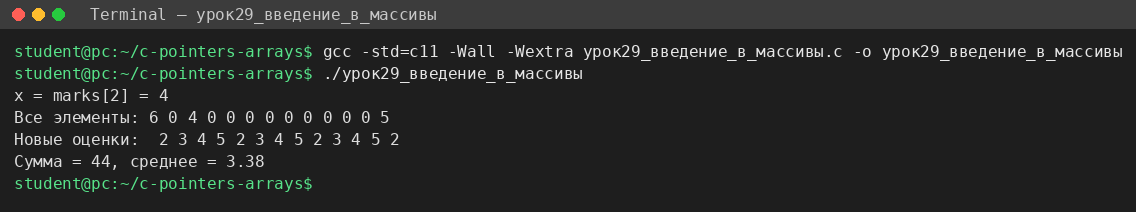
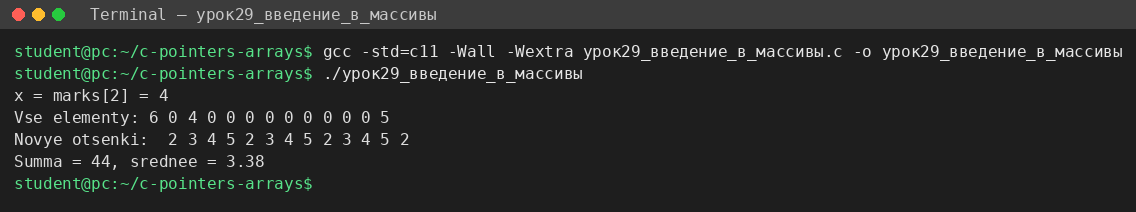
Вывод программ транслитом, чтобы читался в любой консоли
Claude-Session: https://claude.ai/code/session_01XR2qf9a9sUMHkzyo3cAcxk

diff --git a/урок28_адресная_арифметика.c b/урок28_адресная_арифметика.c
@@ -2,15 +2,9 @@
  * Урок #28. Адресная арифметика
  */
 #include <stdio.h>
-#ifdef _WIN32
-#include <windows.h>   /* SetConsoleOutputCP - русский текст в консоли Windows */
-#endif
 
 int main(void)
 {
-#ifdef _WIN32
-    SetConsoleOutputCP(CP_UTF8);
-#endif
     /* 1. Инкремент/декремент указателя сдвигает адрес на sizeof(тип) */
     int g = 4;
     int *ptr = &g;
@@ -30,34 +24,34 @@ int main(void)
     ptr = ptr - 9;
     --ptr;
     ptr++;
-    printf("2) после +3 -4 +10 -9 -1 +1 указатель вернулся: %s\n\n",
-           ptr == start ? "да" : "нет");
+    printf("2) posle +3 -4 +10 -9 -1 +1 ukazatel vernulsya: %s\n\n",
+           ptr == start ? "da" : "net");
 
     /* 3. Разность указателей - расстояние в элементах */
     short ar[10];
     short *p1 = ar;
     short *p2 = &ar[3];
     printf("3) p1 = %p, p2 = %p\n", (void *)p1, (void *)p2);
-    printf("   p2 - p1 = %td (элементов), в байтах: %td\n\n",
+    printf("   p2 - p1 = %td (elementov), v baytah: %td\n\n",
            p2 - p1, (char *)p2 - (char *)p1);
 
     /* 4. Побайтовый просмотр int через char* */
     int n = 476789;
     unsigned char *pb = (unsigned char *)&n;
-    printf("4) байты числа %d (0x%08X):\n   ", n, n);
+    printf("4) bayty chisla %d (0x%08X):\n   ", n, n);
     for (size_t i = 0; i < sizeof(n); ++i)
         printf("%d ", *pb++);   /* сначала берём значение, потом сдвигаем */
     printf("\n\n");
 
     /* 5. Приоритеты операций */
     unsigned char *q = (unsigned char *)&n;
-    printf("5) Приоритеты:\n");
-    printf("   *q + 1   = %d (первый байт + 1)\n", *q + 1);
-    printf("   *(q + 1) = %d (второй байт)\n", *(q + 1));
+    printf("5) Prioritety:\n");
+    printf("   *q + 1   = %d (pervyy bayt + 1)\n", *q + 1);
+    printf("   *(q + 1) = %d (vtoroy bayt)\n", *(q + 1));
     int x = *q++;
-    printf("   x = *q++ = %d, теперь *q = %d\n", x, *q);
+    printf("   x = *q++ = %d, teper *q = %d\n", x, *q);
     x = (*q)++;
-    printf("   x = (*q)++ = %d, теперь *q = %d (изменилось значение)\n", x, *q);
+    printf("   x = (*q)++ = %d, teper *q = %d (izmenilos znachenie)\n", x, *q);
 
     int *pg = &g;
     *pg += 1;

diff --git a/урок27_указатели_приведение_типов_NULL.c b/урок27_указатели_приведение_типов_NULL.c
@@ -2,15 +2,9 @@
  * Урок #27. Указатели. Приведение типов. Константа NULL
  */
 #include <stdio.h>
-#ifdef _WIN32
-#include <windows.h>   /* SetConsoleOutputCP - русский текст в консоли Windows */
-#endif
 
 int main(void)
 {
-#ifdef _WIN32
-    SetConsoleOutputCP(CP_UTF8);
-#endif
     /* 1. Два указателя на одну переменную */
     int arg = 7;
     int *ptr_arg, *ptr;
@@ -18,7 +12,7 @@ int main(void)
     ptr_arg = &arg;
     ptr = ptr_arg;              /* копируем адрес из одного указателя в другой */
 
-    printf("1) Два указателя на одну переменную\n");
+    printf("1) Dva ukazatelya na odnu peremennuyu\n");
     printf("   *ptr = %d, arg = %d\n", *ptr, arg);
     *ptr_arg = 100;             /* меняем значение через первый указатель */
     printf("   *ptr = %d, arg = %d\n\n", *ptr, arg);
@@ -28,10 +22,10 @@ int main(void)
     int *p_int = &num;
     char *p_ch = (char *)p_int; /* явное приведение int* -> char* */
 
-    printf("2) Приведение типов указателей\n");
+    printf("2) Privedenie tipov ukazateley\n");
     printf("   num = %d\n", num);
     *p_ch = 1;                  /* записываем только в младший байт */
-    printf("   после *p_ch = 1: *p_int = %d, num = %d\n\n", *p_int, num);
+    printf("   posle *p_ch = 1: *p_int = %d, num = %d\n\n", *p_int, num);
     /* 777 = 0x0309, младший байт 0x09 заменили на 0x01 -> 0x0301 = 769 */
 
     /* 3. Указатель void* */
@@ -44,16 +38,16 @@ int main(void)
     int val = 5;
     int *pn = NULL;             /* указатель пока никуда не указывает */
 
-    printf("4) Константа NULL\n");
+    printf("4) Konstanta NULL\n");
     if (pn != NULL)
         *pn = 1;
     else
-        printf("   pn == NULL, запись пропущена, val = %d\n", val);
+        printf("   pn == NULL, zapis propuschena, val = %d\n", val);
 
     pn = &val;
     if (pn != NULL)
         *pn = 1;
-    printf("   pn = &val, после записи val = %d\n", val);
+    printf("   pn = &val, posle zapisi val = %d\n", val);
 
     return 0;
 }

diff --git a/урок31_указатели_на_массивы.c b/урок31_указатели_на_массивы.c
@@ -2,15 +2,9 @@
  * Урок #31. Указатели на массивы
  */
 #include <stdio.h>
-#ifdef _WIN32
-#include <windows.h>   /* SetConsoleOutputCP - русский текст в консоли Windows */
-#endif
 
 int main(void)
 {
-#ifdef _WIN32
-    SetConsoleOutputCP(CP_UTF8);
-#endif
     short ar[] = {4, 3, 2, 1, 5, 6, 7};
     size_t n = sizeof(ar) / sizeof(*ar);
 
@@ -19,7 +13,7 @@ int main(void)
     short a_4 = *(ar + 3);
     printf("1) *ar = %d, *(ar+3) = %d\n", a_1, a_4);
 
-    printf("   все элементы через *(ar+i): ");
+    printf("   vse elementy cherez *(ar+i): ");
     for (size_t i = 0; i < n; ++i)
         printf("%d ", *(ar + i));
     printf("\n\n");
@@ -28,14 +22,14 @@ int main(void)
     short *ptr_ar = ar;         /* то же, что &ar[0] */
     short x = *ptr_ar;
     *(ptr_ar + 1) = -3;         /* меняем второй элемент */
-    printf("2) x = *ptr_ar = %d, после *(ptr_ar+1) = -3: ar[1] = %d\n\n", x, ar[1]);
+    printf("2) x = *ptr_ar = %d, posle *(ptr_ar+1) = -3: ar[1] = %d\n\n", x, ar[1]);
 
     /* 3. sizeof массива и указателя */
     printf("3) sizeof(ar) = %zu, sizeof(ptr_ar) = %zu\n\n", sizeof(ar), sizeof(ptr_ar));
 
     /* 4. Указатель можно двигать, имя массива - нельзя */
     /* ar++;  - ошибка компиляции */
-    printf("4) обход через ptr_ar++: ");
+    printf("4) obhod cherez ptr_ar++: ");
     for (short *p = ar; p < ar + n; p++)
         printf("%d ", *p);
     printf("\n\n");
@@ -47,7 +41,7 @@ int main(void)
 
     /* 6. Указатель на весь массив: short (*)[7] */
     short (*pa)[7] = &ar;
-    printf("6) pa = %p, pa + 1 = %p (сдвиг на %td байт)\n",
+    printf("6) pa = %p, pa + 1 = %p (sdvig na %td bayt)\n",
            (void *)pa, (void *)(pa + 1), (char *)(pa + 1) - (char *)pa);
     printf("   (*pa)[6] = %d\n", (*pa)[6]);
 

diff --git a/урок30_размер_и_инициализация_массивов.c b/урок30_размер_и_инициализация_массивов.c
@@ -2,9 +2,6 @@
  * Урок #30. Вычисление размера массива. Инициализация массивов
  */
 #include <stdio.h>
-#ifdef _WIN32
-#include <windows.h>   /* SetConsoleOutputCP - русский текст в консоли Windows */
-#endif
 #include <stdlib.h>
 
 #define TOTAL_MARKS 13
@@ -21,15 +18,12 @@ static void print_int(const char *name, const int *a, size_t n)
 
 int main(void)
 {
-#ifdef _WIN32
-    SetConsoleOutputCP(CP_UTF8);
-#endif
     /* 1. Размер массива */
     int marks[TOTAL_MARKS] = {1, 2, 3, 4, 0, 0, 0, 0, 0, 0, 0, 0, 0};
     size_t bytes = sizeof(marks);
     size_t size1 = sizeof(marks) / sizeof(marks[0]);
     size_t size2 = sizeof(marks) / sizeof(*marks);
-    printf("1) sizeof(marks) = %zu байт, элементов: %zu (= %zu)\n\n", bytes, size1, size2);
+    printf("1) sizeof(marks) = %zu bayt, elementov: %zu (= %zu)\n\n", bytes, size1, size2);
 
     /* 2. Частичная инициализация - остальные нули */
     int part[TOTAL_MARKS] = {1, 2, 3};
@@ -37,7 +31,7 @@ int main(void)
 
     /* 3. Размер берётся из списка инициализации */
     int coords[] = {10, -2, 30};
-    printf("3) coords[] = {10, -2, 30}, элементов: %zu\n",
+    printf("3) coords[] = {10, -2, 30}, elementov: %zu\n",
            sizeof(coords) / sizeof(*coords));
 
     /* 4. Назначенные инициализаторы (C99) */

diff --git a/урок29_введение_в_массивы.c b/урок29_введение_в_массивы.c
@@ -2,20 +2,14 @@
  * Урок #29. Введение в массивы
  */
 #include <stdio.h>
-#ifdef _WIN32
-#include <windows.h>   /* SetConsoleOutputCP - русский текст в консоли Windows */
-#endif
 
 #define TOTAL_MARKS 13
 
 int main(void)
 {
-#ifdef _WIN32
-    SetConsoleOutputCP(CP_UTF8);
-#endif
     int marks[TOTAL_MARKS];
 
-    /* обнуляем массив, чтобы не печатать "мусор" */
+    /* обнуляем массив, чтобы не печатать "musor" */
     for (int i = 0; i < TOTAL_MARKS; ++i)
         marks[i] = 0;
 
@@ -27,7 +21,7 @@ int main(void)
     int x = marks[2];
     printf("x = marks[2] = %d\n", x);
 
-    printf("Все элементы: ");
+    printf("Vse elementy: ");
     for (int i = 0; i < TOTAL_MARKS; ++i)
         printf("%d ", marks[i]);
     printf("\n");
@@ -38,10 +32,10 @@ int main(void)
         marks[i] = i % 4 + 2;   /* оценки 2..5 */
         sum += marks[i];
     }
-    printf("Новые оценки:  ");
+    printf("Novye otsenki:  ");
     for (int i = 0; i < TOTAL_MARKS; ++i)
         printf("%d ", marks[i]);
-    printf("\nСумма = %d, среднее = %.2f\n", sum, (double)sum / TOTAL_MARKS);
+    printf("\nSumma = %d, srednee = %.2f\n", sum, (double)sum / TOTAL_MARKS);
 
     return 0;
 }
